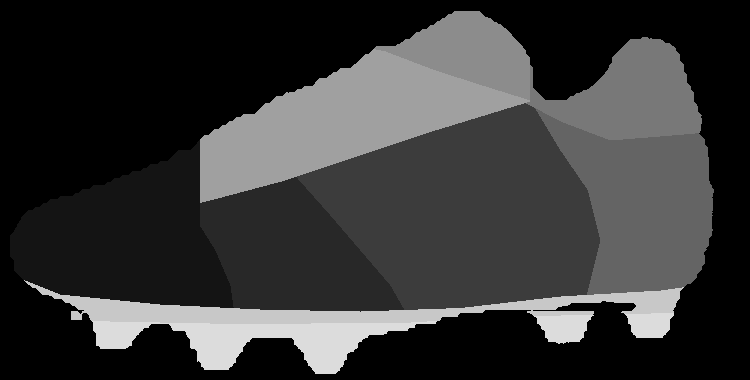
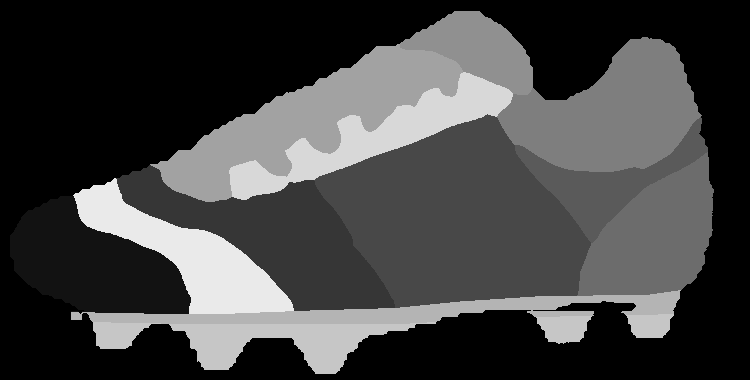
Warsztat: części buta według narysowanych szwów, dłuższa podeszwa w widoku z dołu
Claude-Session: https://claude.ai/code/session_01Y9XNosS9qXxorLv9Jh2D4n

diff --git a/warsztat.js b/warsztat.js
@@ -7,9 +7,9 @@
   const PARTS = { 1: L('CZUBEK', 'TOE'), 2: L('PRZÓD', 'FOREFOOT'), 3: L('ŚRÓDSTOPIE', 'MIDFOOT'), 4: L('PASKI', 'STRIPES'), 5: L('TYŁ', 'BACK'),
     6: L('KOŁNIERZ', 'COLLAR'), 7: L('JĘZYK', 'TONGUE'), 8: L('SZNURÓWKI', 'LACES'), 10: L('PODESZWA', 'SOLE'), 11: L('KORKI', 'STUDS') };
   // boot models: each has its own picture, its own parts map (cut seam to seam) and its own paint
-  const MODELS = { m2: { n: L('KLASYK', 'CLASSIC'), side: 'boot2_side.png?v=1', parts: 'boot2_parts.png?v=1', bg: 'warsztat_side2.jpg?v=1',
-      names: { 1: L('CZUBEK', 'TOE'), 2: L('PRZÓD', 'FOREFOOT'), 3: L('ŚRÓDSTOPIE', 'MIDFOOT'), 5: L('PIĘTA', 'HEEL'), 6: L('KOŁNIERZ', 'COLLAR'), 7: L('JĘZYK', 'TONGUE'), 8: L('SZNURÓWKI', 'LACES'), 10: L('PODESZWA', 'SOLE'), 11: L('KORKI', 'STUDS') } },
-    m1: { n: L('PASKI', 'STRIPES'), side: 'boot_side.png?v=1', parts: 'boot_parts.png?v=2', bg: 'warsztat_side.jpg?v=1', names: PARTS } };
+  const MODELS = { m2: { n: L('KLASYK', 'CLASSIC'), side: 'boot2_side.png?v=2', parts: 'boot2_parts.png?v=2', bg: 'warsztat_side2.jpg?v=1', div: 18,
+      names: { 1: L('CZUBEK', 'TOE'), 13: L('PRZESZYCIE', 'TOE BAND'), 3: L('PRZÓD', 'FOREFOOT'), 4: L('ŚRÓDSTOPIE', 'MIDFOOT'), 5: L('TYŁ', 'BACK'), 6: L('PIĘTA', 'HEEL'), 7: L('KOŁNIERZ', 'COLLAR'), 8: L('JĘZYK', 'TONGUE'), 9: L('SZNURÓWKI', 'LACES'), 12: L('OCZKA', 'EYELETS'), 10: L('PODESZWA', 'SOLE'), 11: L('KORKI', 'STUDS') } },
+    m1: { n: L('PASKI', 'STRIPES'), side: 'boot_side.png?v=1', parts: 'boot_parts.png?v=2', bg: 'warsztat_side.jpg?v=1', div: 20, names: { ...PARTS } } };
   let MOD = 'm2';
   const COLS = ['#ffffff', '#d8d8e0', '#8a8a96', '#2a2a32', '#e8402a', '#ff8a1f', '#ffe14a', '#6ee05a', '#1f9a4a', '#3fd8ff', '#2a6ae8', '#6b3fa8',
     '#ff6ab8', '#8a4a20', '#ffc21a', '#b8f0ff'];
@@ -35,11 +35,11 @@
   let soleMaskImg = null;
   const loadModel = async (id) => { MOD = id; const Md = MODELS[id]; side = await load(Md.side); Object.keys(PARTS).forEach((k) => delete PARTS[k]); Object.assign(PARTS, Md.names); matFor = '';
     const pm = await load(Md.parts), c = document.createElement('canvas'); c.width = W; c.height = H; const g = c.getContext('2d'); g.drawImage(pm, 0, 0);
-    const d = g.getImageData(0, 0, W, H).data; partsData = new Uint8Array(W * H); for (let i = 0; i < W * H; i++) partsData[i] = Math.round(d[i * 4] / 20);
+    const d = g.getImageData(0, 0, W, H).data; partsData = new Uint8Array(W * H); for (let i = 0; i < W * H; i++) partsData[i] = Math.round(d[i * 4] / Md.div);
     pg.clearRect(0, 0, W, H); undo = []; try { const s = localStorage.getItem('boot_paint_' + id) || (id === 'm1' ? localStorage.getItem('boot_paint') : null); if (s) pg.drawImage(await load(s), 0, 0); } catch (e) {} };
   const prep = async () => {
     sole = await load('boot_sole.png?v=1'); await loadModel(cfg().model || 'm2');
-    const sm = soleMaskImg = await load('boot_sole_m.png?v=2'), c2 = document.createElement('canvas'); c2.width = SW; c2.height = SH; const g2 = c2.getContext('2d'); g2.drawImage(sm, 0, 0);
+    const sm = soleMaskImg = await load('boot_sole_m.png?v=3'), c2 = document.createElement('canvas'); c2.width = SW; c2.height = SH; const g2 = c2.getContext('2d'); g2.drawImage(sm, 0, 0);
     const d2 = g2.getImageData(0, 0, SW, SH).data; soleMask = new Uint8Array(SW * SH); for (let i = 0; i < SW * SH; i++) soleMask[i] = d2[i * 4 + 3] > 128 ? 1 : 0;
   };
   const save = () => { try { localStorage.setItem('boot_paint_' + MOD, paint.toDataURL()); } catch (e) {} const B = cfg(), d = pg.getImageData(0, 0, W, H).data; let n = 0;
@@ -59,7 +59,7 @@
   // material texture over the upper (parts 1-8)
   let matTex = null, matFor = '';
   const buildMat = () => { const m = cfg().mat; if (matFor === m) return; matFor = m; matTex = document.createElement('canvas'); matTex.width = W; matTex.height = H; const g = matTex.getContext('2d'), img = g.createImageData(W, H), d = img.data;
-    for (let y = 0; y < H; y++) for (let x = 0; x < W; x++) { const i = y * W + x, p = partsData[i]; if (!p || p > 8) continue; let a = 0;
+    for (let y = 0; y < H; y++) for (let x = 0; x < W; x++) { const i = y * W + x, p = partsData[i]; if (!p || p === 10 || p === 11) continue; let a = 0;
       if (m === 'knit') a = (y % 4 < 1) ? 40 : ((x + (y >> 2)) % 6 === 0 ? 22 : 0); else if (m === 'carbon') a = (((x >> 2) + (y >> 2)) % 2 ? 46 : 0) + ((x + y) % 8 === 0 ? 20 : 0);
       else if (m === 'syn') a = ((x - y * 2) % 40 + 40) % 40 < 3 ? -40 : 0; else a = 0;
       if (a > 0) { d[i * 4 + 3] = a; } else if (a < 0) { d[i * 4] = d[i * 4 + 1] = d[i * 4 + 2] = 255; d[i * 4 + 3] = -a; } }

diff --git a/index.html b/index.html
@@ -1136,7 +1136,7 @@
 <script>
   document.getElementById('mvol').addEventListener('click', (e) => { e.stopPropagation(); MV.next(); }); MV.lbl();
 </script>
-<script src="./warsztat.js?v=3"></script>
+<script src="./warsztat.js?v=4"></script>
 <script src="./pen.js?v=2"></script>
 <script src="./lace.js"></script>
 <script src="./caps.js"></script>
